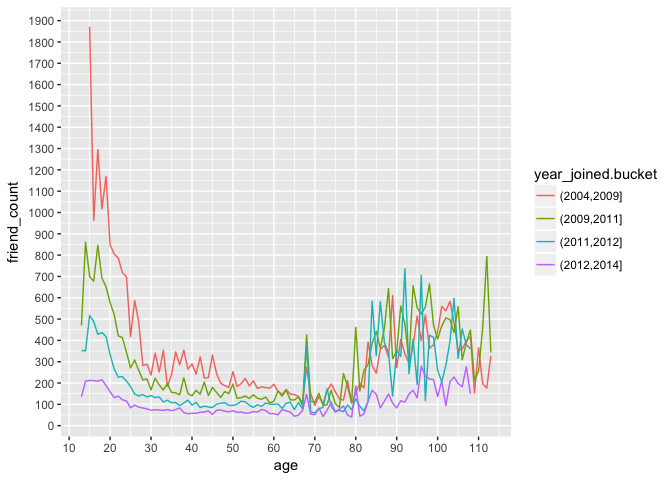
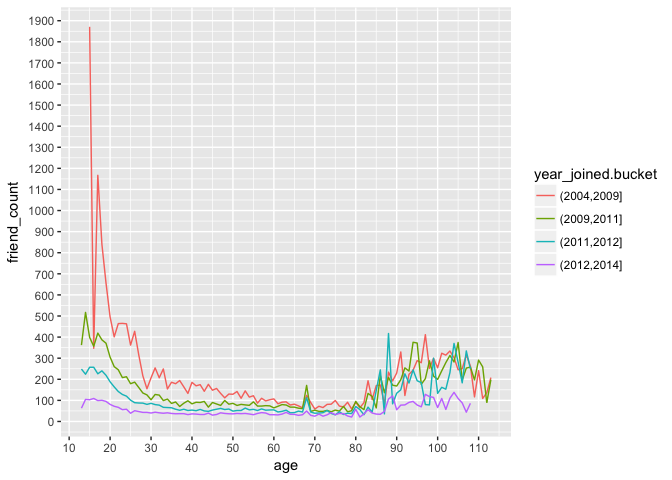
Fixed section "Plotting It All Together"
I changed the fun.y from mean to median.

Changed region(s): [[0.0312, 0.1562, 0.75, 0.9062], [0.0312, 0.1875, 0.0938, 0.3125], [0.0312, 0.0625, 0.0938, 0.0938]]

diff --git a/core-course-05-exploratory-data-analysis/lesson-07-explore-many-variables/lesson_07.md b/core-course-05-exploratory-data-analysis/lesson-07-explore-many-variables/lesson_07.md
@@ -190,7 +190,7 @@ You should subset the data to exclude the users whose year\_joined.bucket is NA.
 
 ``` r
 ggplot(subset(pf, !is.na(year_joined.bucket)), aes(x = age, y = friend_count)) +
-  geom_line(aes(color = year_joined.bucket), stat = "summary", fun.y = mean) +
+  geom_line(aes(color = year_joined.bucket), stat = "summary", fun.y = median) +
   scale_x_continuous(breaks = seq(10, 120, 10)) +
   scale_y_continuous(breaks = seq(0, 2000, 100))
 ```
